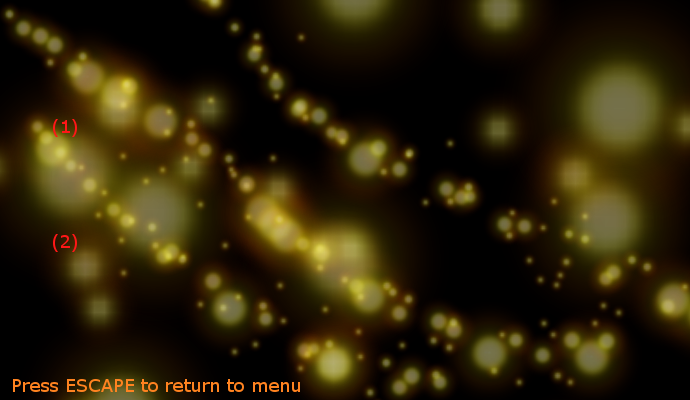
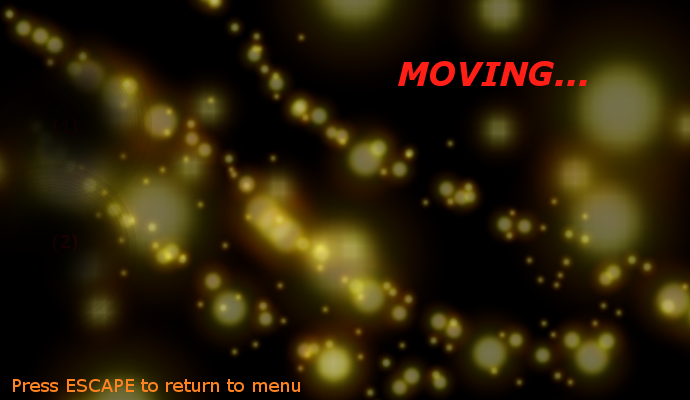
Source Code

Changed region(s): [[0.0304, 0.12, 0.213, 0.75], [0.5783, 0.15, 0.8522, 0.24]]

diff --git a/InterfazGrafica.py b/InterfazGrafica.py
@@ -25,7 +25,7 @@ def get_key():
       pass
 
 def display_box(screen, message, x, y):
-  "Print a message in a box in the middle of the screen"
+  "Print a message in a box in the screen"
   fontobject = pygame.font.Font(None,18)
   pygame.draw.rect(screen, (255,255,255),(x,y,40,20), 0)
   pygame.draw.rect(screen, (255,255,255),(x,y,40,20), 1)
@@ -73,6 +73,7 @@ def metodo2(screen):
     return dato
 
 def instr(screen):
+    #instrucciones
     myfont = pygame.font.SysFont("Arial Black", 16)
     label = myfont.render("Instructions: first, select the desired movement with the arrows of the ", 1, (255,255,255))
     screen.blit(label, (10, 10))
@@ -84,6 +85,7 @@ def instr(screen):
     pygame.display.flip()
 
 def flecha(screen, flechas, fondo, rover):
+    #Mostrar la flecha presionada
     screen.blit(fondo, (0,0))
     screen.blit(rover, (350,80))   
     screen.blit(flechas, (60,80))
@@ -103,36 +105,54 @@ def main():
       inkey = get_key()
       if inkey == K_1:
         delay = 1
-        fondo = pygame.image.load("fondoLuna.png").convert_alpha()
+        fondo = pygame.image.load("fondoLuna.png").convert()
+        hacer = True
         break
       elif inkey == K_2:
         delay = 294
-        fondo = pygame.image.load("fondoMercurio.png").convert_alpha()
+        fondo = pygame.image.load("fondoMercurio.png").convert()
+        hacer = True
         break
       elif inkey == K_3:
         delay = 127
-        fondo = pygame.image.load("fondoVenus.png").convert_alpha()
+        fondo = pygame.image.load("fondoVenus.png").convert()
+        hacer = True
         break
       elif inkey == K_4:
         delay = 270
-        fondo = pygame.image.load("fondoMarte.png").convert_alpha()
+        fondo = pygame.image.load("fondoMarte.png").convert()
+        hacer = True
         break
-      
+
+      elif inkey == K_5:
+        fondo = pygame.image.load("fondo.png").convert()
+        envio = "A" #que camine solo
+        hacer = False
+        print envio
+        #uuu.envia_udp(envio)
+        break
+
     flechas1 = pygame.image.load("flechas1.png").convert_alpha()
     rover = pygame.image.load("rover.png").convert_alpha()
+    screen.blit(fondo, (0,0))
 
-    screen.blit(fondo, (0,0))  
-    screen.blit(flechas1, (60,80))
-    screen.blit(rover, (350,80))
-    pygame.display.flip()
-
-    instr(screen)    
+    if hacer == True:
+      screen.blit(flechas1, (60,80))
+      screen.blit(rover, (350,80))
+      instr(screen)
+      
+    pygame.display.flip()  
     
     while True:
         tecla=pygame.key.get_pressed()
-
         if tecla[K_ESCAPE]:
               while True:
+                if hacer == False:
+                  envio = "B"
+                  print envio
+                  #uuu.envia_udp(envio)
+                  
+                hacer = True
                 tecla=pygame.key.get_pressed()
                 inicio = pygame.image.load("inicio.png").convert()
                 screen.blit(inicio, (0,0))
@@ -141,27 +161,44 @@ def main():
                 if inkey == K_1:
                   delay = 1
                   fondo = pygame.image.load("fondoLuna.png").convert()
+                  hacer = True
                   break
                 elif inkey == K_2:
                   delay = 294
                   fondo = pygame.image.load("fondoMercurio.png").convert()
+                  hacer = True
                   break
                 elif inkey == K_3:
                   delay = 127
                   fondo = pygame.image.load("fondoVenus.png").convert()
+                  hacer = True
                   break
                 elif inkey == K_4:
                   delay = 270
                   fondo = pygame.image.load("fondoMarte.png").convert()
+                  hacer = True
                   break
-              screen.blit(fondo, (0,0))  
-              screen.blit(flechas1, (60,80))
-              screen.blit(rover, (350,80))
-              pygame.display.flip()
 
-              instr(screen) 
+                elif inkey == K_5:
+                  fondo = pygame.image.load("fondo.png").convert()
+                  envio = "A" #que camine solo
+                  hacer = False
+                  print envio
+                  #uuu.envia_udp(envio)
+                  break
+                
+              flechas1 = pygame.image.load("flechas1.png").convert_alpha()
+              rover = pygame.image.load("rover.png").convert_alpha()
+              screen.blit(fondo, (0,0))
+
+              if hacer == True:
+                screen.blit(flechas1, (60,80))
+                screen.blit(rover, (350,80))
+                instr(screen)
+                
+              pygame.display.flip() 
         
-        elif tecla[K_LEFT]:
+        elif tecla[K_LEFT] and hacer == True:
             flechas = pygame.image.load("flechas2.png").convert_alpha()   
             flecha(screen, flechas, fondo, rover) 
             dato = metodo2(screen)
@@ -174,7 +211,7 @@ def main():
             print envio
             #uuu.envia_udp(envio)
 
-        elif tecla[K_RIGHT]:
+        elif tecla[K_RIGHT] and hacer == True:
             flechas = pygame.image.load("flechas3.png").convert_alpha()   
             flecha(screen, flechas, fondo, rover)
             dato = metodo2(screen)
@@ -187,7 +224,7 @@ def main():
             print envio
             #uuu.envia_udp(envio)
 
-        elif tecla[K_DOWN]:
+        elif tecla[K_DOWN] and hacer == True:
             flechas = pygame.image.load("flechas5.png").convert_alpha()
             flecha(screen, flechas, fondo, rover) 
             dato = metodo1(screen)
@@ -200,7 +237,7 @@ def main():
             print envio
             #uuu.envia_udp(envio)
                                 
-        elif tecla[K_UP]:    
+        elif tecla[K_UP] and hacer == True:    
             flechas = pygame.image.load("flechas4.png").convert_alpha()
             flecha(screen, flechas, fondo, rover)             
             dato = metodo1(screen)
